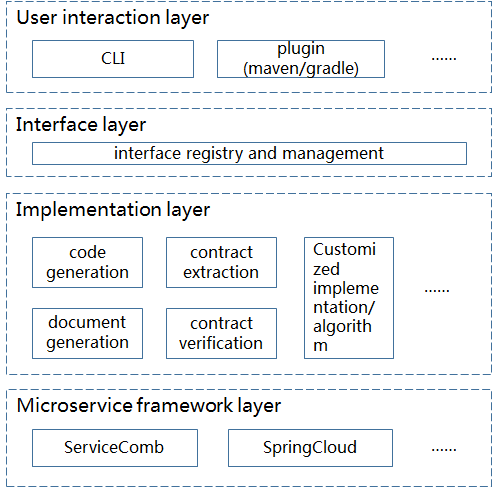
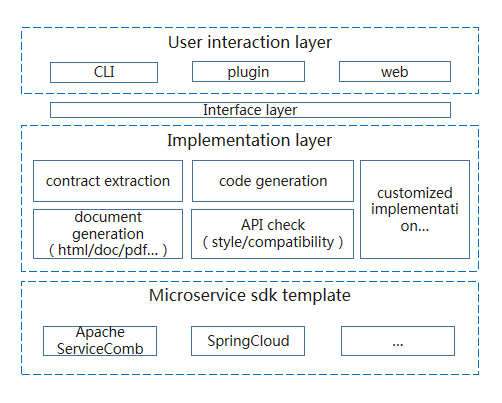
update readme

diff --git a/README.md b/README.md
@@ -22,27 +22,27 @@ Apache ServiceComb Toolkit is a contract-based microservice development toolkit
 
 * Service contract and code consistency check
 
-  Verify that the actual implementation of the application (such as the data and service API) is consistent with the agreed service contract description.
+  Verify that the actual implementation of the application (such as the data and service API) is consistent with the agreed service contract description. Support style check and compatibility check. See details [oas-validator](./oas-validator/README.md)
 
 * Service contract/code generation document
 
   Enter a service contract that conforms to the OpenAPI specification, one-click generation of a document in html format.
 
 * Todo List
-
-  * Support contract one-click production microservice engineering based on popular microservice framework such as SpringCloud.
-
-  * Support one-click generation of micro-service engineering from legacy application code
-
-  * Support gradle-based contract development plugin.
-
-  * Support plugins to embed eclipse.
+  
+  * Support gradle plugin, eclipse plugin, intellij plugin.
 
   * Support for generating popular format documents such as word, pdf.
 
   * Support contract incremental generation code.
 
-  * make capability as a service.
+  * Make capability as a service.
+  
+  * Server-side automatic / semi-automatic test
+  
+  * Interface matching check
+  
+  * Support for generating microservice scaffolding containing code snippets that connect to common DBs such as Mysql / Redis
 
 ### 1.3 Applicable Scene
 
